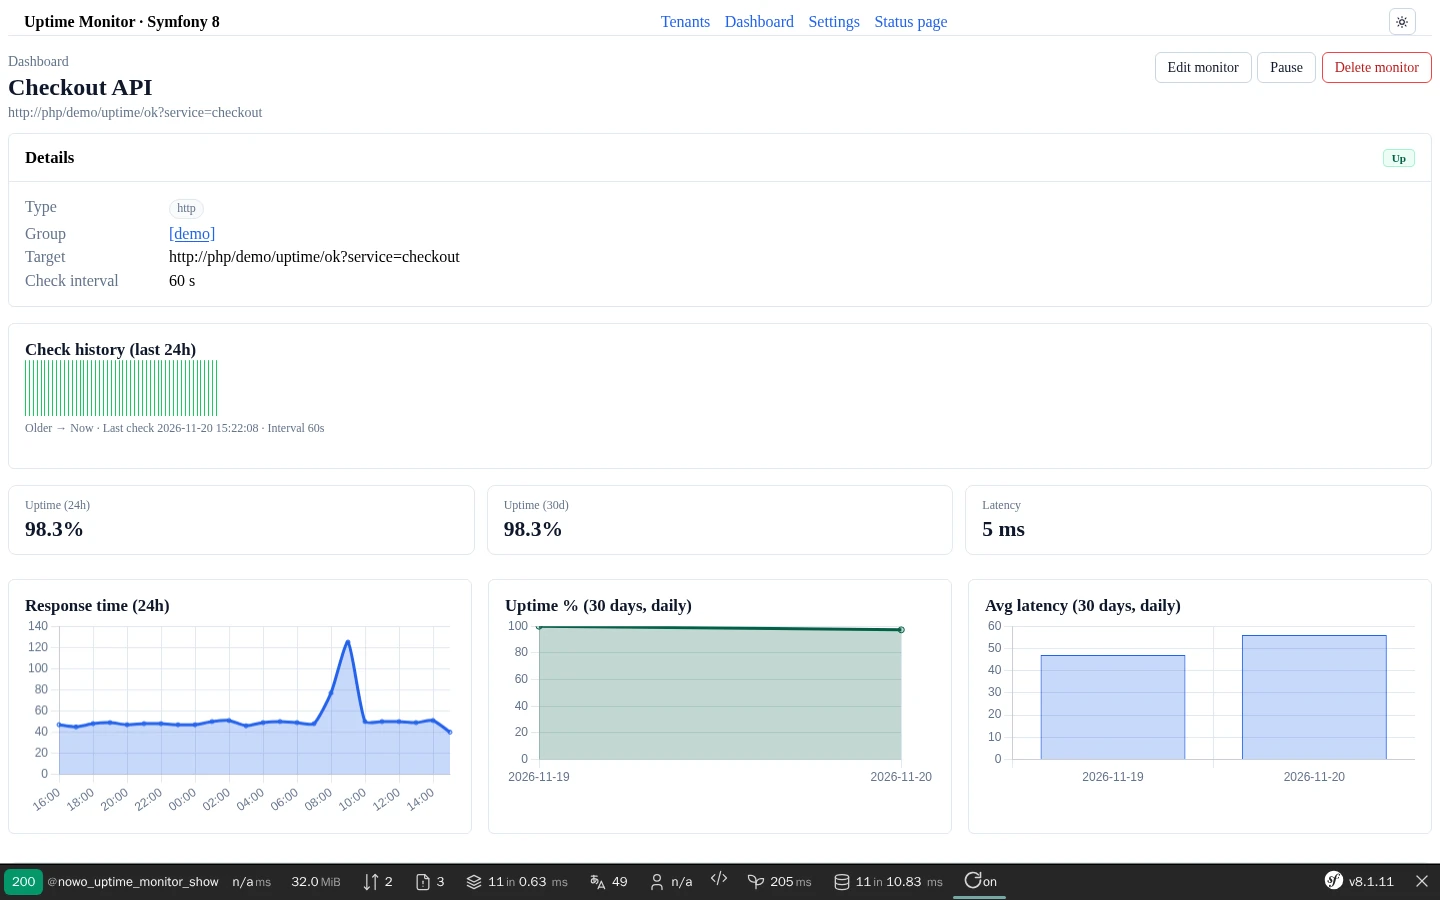
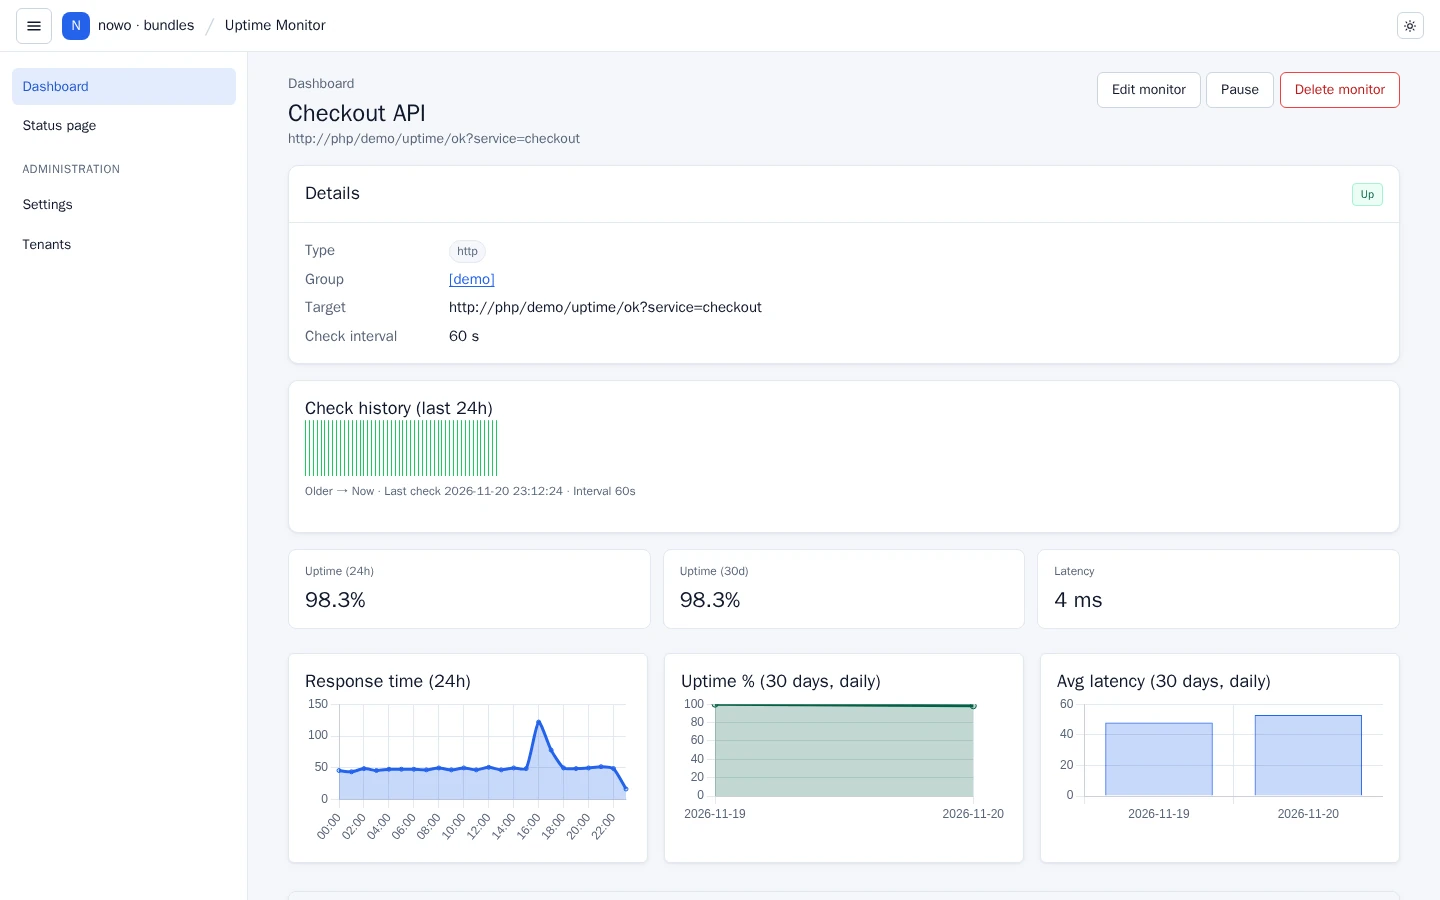
chore(demo): run the demo in UiKit's demo platform shell

diff --git a/demo/symfony8/e2e/tests/demo-platform.spec.ts b/demo/symfony8/e2e/tests/demo-platform.spec.ts
@@ -1,0 +1,188 @@
+import { test, expect, type Page } from '@playwright/test';
+import AxeBuilder from '@axe-core/playwright';
+
+/**
+ * UiKit demo platform shell (REQ-DEMO-014): layout grammar, demo styles, host theme tokens, framework classes, the
+ * closed phone drawer, 44 px touch targets and input borders on every demo page, plus axe (wcag2a / 2aa / 21a / 21aa,
+ * serious + critical = 0) in light and dark, desktop and phone, and the keyboard drawer pass.
+ */
+type Theme = 'light' | 'dark';
+type PageEntry = string | ((page: Page) => Promise<string>);
+
+async function prepare(_page: Page): Promise<void> {}
+
+/** The detail page of a seeded monitor (ids change on every reseed). */
+async function monitorPath(page: Page): Promise<string> {
+  await page.goto('/uptime/main');
+  await page.getByRole('link', { name: 'Checkout API', exact: true }).first().click();
+  await page.waitForURL(/\/monitors\/\d+$/);
+  return new URL(page.url()).pathname;
+}
+
+
+async function setTheme(page: Page, theme: Theme): Promise<void> {
+  await page.evaluate((t) => {
+    document.documentElement.setAttribute('data-theme', t);
+    document.documentElement.setAttribute('data-bs-theme', t);
+  }, theme);
+}
+
+async function axe(page: Page): Promise<string[]> {
+  const result = await new AxeBuilder({ page }).withTags(['wcag2a', 'wcag2aa', 'wcag21a', 'wcag21aa']).exclude('.sf-toolbar').analyze();
+  return result.violations
+    .filter((v) => v.impact === 'serious' || v.impact === 'critical')
+    .map((v) => `${v.id}: ${v.nodes.map((n) => n.target.join(' ')).join(', ')}`);
+}
+
+/** The demo layout + style rules (docs/USAGE.md "Demo platform shell"; same function as the rollout brief's spec): layout grammar,
+ * no demo styles / host tokens / framework classes, closed drawer inert, 44 px targets on coarse pointers, input borders 3:1. */
+/* eslint-disable */
+// prettier-ignore
+function demoPlatformRules(): string[] {
+  const issues = [];
+  const main = document.querySelector('#nowo-ui-content');
+  const shell = document.querySelector('[data-testid="demo-platform"]');
+  if (!main || !shell) return ['no-demo-platform-shell'];
+  const visible = (el) => !!(el.offsetWidth || el.offsetHeight || el.getClientRects().length);
+  const carded = (el) => el.closest('.nowo-ui-card, [data-nowo-ui-region="table"], [data-nowo-ui-region="form"], .nowo-ui-form-panel, dialog');
+  const skip = (el) => el.closest('dialog, [data-nowo-ui-region="filters"], .nowo-ui-filters, .nowo-ui-page-header');
+
+  // Layout grammar.
+  main.querySelectorAll('table').forEach((t) => { if (!carded(t)) issues.push('table-outside-card'); });
+  main.querySelectorAll('form').forEach((f) => {
+    if (f.querySelector('input:not([type="hidden"]), select, textarea') && !carded(f) && !skip(f) && !f.closest('table')) issues.push('form-outside-card');
+  });
+  const primaries = [...main.querySelectorAll('.nowo-ui-btn--primary')].filter((b) => visible(b) && !b.closest('table, dialog, [data-nowo-ui-region="filters"], .nowo-ui-filters, form'));
+  if (primaries.length > 1) issues.push(`primary-buttons:${primaries.length}`);
+  const header = main.querySelector('.nowo-ui-page-header');
+  const flashes = main.querySelector('.nowo-ui-flashes');
+  if (header && flashes && (flashes.compareDocumentPosition(header) & Node.DOCUMENT_POSITION_FOLLOWING)) issues.push('flashes-before-page-header');
+  if (document.documentElement.scrollWidth > document.documentElement.clientWidth + 1) issues.push('page-scrolls-horizontally');
+
+  // Styles: no demo styles, no host theme tokens, no CDN / foreign stylesheet, no framework classes inside the shell.
+  document.querySelectorAll('style').forEach((s) => {
+    if (s.matches('[data-nowo-ui-theme-tokens], [data-nowo-ui-appearance]')) { issues.push('host-theme-tokens'); return; }
+    if (!/sf-toolbar|sfwdt|sf-minitoolbar|sf-display/.test(s.textContent || '') && !s.closest('[id^="sfwdt"], .sf-toolbar')) issues.push('style-element');
+  });
+  document.querySelectorAll('link[rel="stylesheet"]').forEach((l) => {
+    const path = new URL(l.href, location.href).pathname;
+    if (!path.startsWith('/bundles/') && !path.startsWith('/_wdt/') && !path.startsWith('/_profiler/')) issues.push(`stylesheet:${path}`);
+  });
+  const framework = /^(acme-.*|nav-tabs|nav-link|nav-item|alert|alert-.*|form-check.*|form-control|form-select|form-label|btn|btn-.*|card|card-.*|badge|row|col|col-.*|table|table-.*)$/;
+  shell.querySelectorAll('[class]').forEach((el) => {
+    for (const c of el.classList) { if (framework.test(c)) { issues.push(`framework-class:${c}`); break; } }
+  });
+
+  // Drawer: below 901 px a closed drawer is inert and the burger says so.
+  const aside = shell.querySelector('[data-nowo-ui-aside]');
+  if (aside && window.innerWidth < 901) {
+    const open = shell.classList.contains('is-aside-open-mobile');
+    if (!open && !aside.hasAttribute('inert')) issues.push('drawer-not-inert');
+    shell.querySelectorAll('[data-nowo-ui-burger]').forEach((b) => {
+      if (visible(b) && b.getAttribute('aria-expanded') !== (open ? 'true' : 'false')) issues.push('burger-state');
+    });
+  }
+
+  // Touch: 44 px targets on coarse pointers (checkbox / radio 24 px, their label carries the 44 px row).
+  if (window.matchMedia('(pointer: coarse)').matches) {
+    const controls = [...shell.querySelectorAll('.nowo-ui-btn, button, summary, input:not([type="hidden"]), select, textarea, [role="tab"], .nowo-ui-aside__link, .nowo-ui-demo-platform__locale')]
+      .filter((el) => visible(el) && !el.closest('[inert], table'));
+    for (const el of controls) {
+      const r = el.getBoundingClientRect();
+      const small = el.matches('input[type="checkbox"], input[type="radio"]') ? r.height < 24 || r.width < 24 : r.height < 43.5;
+      if (small) { issues.push(`target-under-44px:${(el.className && String(el.className).split(' ')[0]) || el.tagName.toLowerCase()}`); }
+    }
+  }
+
+  // Inputs: boundary 3:1 or more against the surface behind them (WCAG 1.4.11).
+  const rgb = (c) => { const m = c.match(/[\d.]+/g); return m ? m.slice(0, 4).map(Number) : null; };
+  const lum = (c) => { const v = c.slice(0, 3).map((x) => { const s = x / 255; return s <= 0.03928 ? s / 12.92 : ((s + 0.055) / 1.055) ** 2.4; }); return 0.2126 * v[0] + 0.7152 * v[1] + 0.0722 * v[2]; };
+  const bgOf = (el) => { for (let n = el.parentElement; n; n = n.parentElement) { const c = rgb(getComputedStyle(n).backgroundColor); if (c && (c.length < 4 || c[3] > 0)) return c; } return [255, 255, 255]; };
+  shell.querySelectorAll('input:not([type="hidden"], [type="checkbox"], [type="radio"]), select, textarea').forEach((el) => {
+    if (!visible(el) || el.closest('[inert]')) return;
+    const border = rgb(getComputedStyle(el).borderTopColor);
+    if (!border) return;
+    const a = lum(border); const b = lum(bgOf(el));
+    if ((Math.max(a, b) + 0.05) / (Math.min(a, b) + 0.05) < 3) issues.push(`input-border-under-3:1:${el.id || el.name || el.tagName.toLowerCase()}`);
+  });
+
+  return [...new Set(issues)];
+}
+
+
+const PAGES: PageEntry[] = ['/uptime/main', monitorPath, '/uptime/main/monitors/new', '/uptime/main/settings', '/status/main'];
+
+const BUNDLE_OWNED: Array<{ path: RegExp; rule: RegExp }> = [
+  // Bundle-owned (Uptime Monitor pages carry their own component CSS): search / filter / form fields under 3:1 or 44 px, switches under 44 px, a search form outside a card, and axe color-contrast / list / nested-interactive / scrollable-region-focusable on dashboard, monitor and status pages.
+  { path: /^\/(uptime|status)\//, rule: /^(form-outside-card|target-under-44px|input-border-under-3:1|color-contrast|list|nested-interactive|scrollable-region-focusable)/ },
+];
+
+/** Findings on a bundle's own page are reported as bundle-owned (not patched in the demo): they are filtered here, by path and rule. */
+function demo(url: string, issues: string[]): string[] {
+  const path = new URL(url).pathname;
+  return issues.filter((issue) => !BUNDLE_OWNED.some((o) => o.path.test(path) && o.rule.test(issue)));
+}
+
+async function resolvePath(page: Page, entry: PageEntry): Promise<string> {
+  return typeof entry === 'function' ? entry(page) : entry;
+}
+
+test.describe('demo platform rules', () => {
+  // Device-emulating projects (phone / iphone ...) set their own context: the viewport blocks below do it explicitly.
+  test.beforeEach(async ({}, testInfo) => {
+    test.skip(/phone/i.test(testInfo.project.name), 'viewport blocks set their own context');
+  });
+
+  test('desktop 1440 px', async ({ page }) => {
+    await page.setViewportSize({ width: 1440, height: 900 });
+    await prepare(page);
+    for (const path of PAGES) {
+      await page.goto(await resolvePath(page, path));
+      expect(demo(page.url(), await page.evaluate(demoPlatformRules)), page.url()).toEqual([]);
+    }
+  });
+
+  test.describe('phone 390 px, touch', () => {
+    test.use({ viewport: { width: 390, height: 844 }, isMobile: true, hasTouch: true });
+
+    test('rules on every page', async ({ page }) => {
+      await prepare(page);
+      for (const path of PAGES) {
+        await page.goto(await resolvePath(page, path));
+        expect(demo(page.url(), await page.evaluate(demoPlatformRules)), page.url()).toEqual([]);
+      }
+    });
+
+    test('keyboard drawer pass', async ({ page }) => {
+      await prepare(page);
+      await page.goto(await resolvePath(page, PAGES[0]));
+      const aside = page.locator('[data-nowo-ui-aside]');
+      await expect(aside).toHaveAttribute('inert', '');
+      const burger = page.locator('[data-nowo-ui-burger]').first();
+      await expect(burger).toHaveAttribute('aria-expanded', 'false');
+      await burger.focus();
+      await page.keyboard.press('Enter');
+      await expect(page.getByTestId('demo-platform')).toHaveClass(/is-aside-open-mobile/);
+      await expect(page.locator('[data-nowo-ui-aside] :focus')).toHaveCount(1);
+      await expect(page.locator('.nowo-ui-main')).toHaveAttribute('inert', '');
+      await expect(page.locator('html')).toHaveClass(/nowo-ui-drawer-open/);
+      await page.keyboard.press('Escape');
+      await expect(burger).toBeFocused();
+      await expect(aside).toHaveAttribute('inert', '');
+    });
+  });
+
+  for (const theme of ['light', 'dark'] as Theme[]) {
+    for (const [name, width] of [['desktop', 1440], ['phone', 390]] as const) {
+      test(`axe clean: ${name}, ${theme}`, async ({ page }) => {
+        await page.setViewportSize({ width, height: 900 });
+        await prepare(page);
+        for (const path of PAGES) {
+          await page.goto(await resolvePath(page, path));
+          await setTheme(page, theme);
+          expect(demo(page.url(), await axe(page)), page.url()).toEqual([]);
+        }
+      });
+    }
+  }
+});

diff --git a/demo/symfony8/e2e/tests/screenshots.spec.ts b/demo/symfony8/e2e/tests/screenshots.spec.ts
@@ -4,7 +4,7 @@ import { resolve } from 'node:path';
 import { OUTAGE_MONITOR, openDashboard } from './helpers';
 
 /**
- * REQ-DEMO-013 — README screenshots in full demo context: app masthead + bundle UI + Symfony web debug
+ * REQ-DEMO-013 — README screenshots in full demo context: demo shell + bundle UI, no Symfony debug
  * toolbar (light theme), with the seeded monitors and 24 h of backfilled history (`make demo-screenshots` reseeds first).
  * Captured as PNG; `make demo-screenshots` converts them to WebP and deletes the PNGs.
  */
@@ -18,17 +18,14 @@ const WIDTH = 1440;
 const HEIGHT = 900;
 
 /**
- * Captures the viewport (masthead → bundle UI → fixed web debug toolbar) once the toolbar is rendered.
- * When `until` is given, the viewport grows so that element is fully visible above the toolbar.
+ * Captures the viewport (demo shell header → bundle UI). The Symfony toolbar is not part of the demo platform: it is hidden.
+ * When `until` is given, the viewport grows so that element is fully visible.
  */
 async function captureDemoFrame(page: Page, file: string, until?: Locator): Promise<void> {
-  const toolbar = page.locator('.sf-toolbar .sf-toolbarreset');
-  await expect(toolbar).toBeVisible();
+  await page.addStyleTag({ content: '.sf-toolbar,.sf-minitoolbar,[id^="sfwdt"]{display:none!important}' });
   if (until) {
     const bottom = await until.evaluate((el) => el.getBoundingClientRect().bottom + window.scrollY);
-    const toolbarHeight = (await toolbar.boundingBox())?.height ?? 40;
-    await page.setViewportSize({ width: WIDTH, height: Math.max(HEIGHT, Math.ceil(bottom + 32 + toolbarHeight)) });
-    await expect(toolbar).toBeVisible();
+    await page.setViewportSize({ width: WIDTH, height: Math.max(HEIGHT, Math.ceil(bottom + 32)) });
   }
   // Let Chart.js / heartbeat bars finish their entry animation.
   await page.evaluate(() => new Promise((done) => requestAnimationFrame(() => setTimeout(done, 1200))));

diff --git a/demo/symfony8/config/reference.php b/demo/symfony8/config/reference.php
@@ -954,6 +954,10 @@ use Symfony\Component\Config\Loader\ParamConfigurator as Param;
  *         flush_listener_changes?: bool|Param, // Since 1.27.0: after the MonitorWentDownEvent / MonitorRecoveredEvent listeners ran (after the check commit), also flush the application entity manager that maps the bundle entities when a listener left changes there (the 1.25 to 1.26 behaviour; a deprecation is triggered when it flushes something). False = the bundle never flushes an application manager (DDD hosts; the only behaviour in 2.0): listeners flush their own changes. // Default: true
  *         table_prefix?: scalar|Param|null, // Prefix prepended to every bundle table, index and unique constraint name (e.g. "app_" yields app_uptime_monitor). Empty = historical uptime_* names. // Default: ""
  *     },
+ *     conflict_response?: array{ // Since 1.31 (REQ-RUNTIME-003 rule 6): the answer of a bundle route to a lock conflict (deadlock, lock wait timeout, serialization failure). Nothing committed: the status + Retry-After + code CONFLICT_001; part committed: the status, no Retry-After, code CONFLICT_002. Null options follow the shared nowo_transaction_doctrine.conflict_response policy when NowoTransactionDoctrineBundle is registered, else 409 and 1 s.
+ *         status?: int|Param, // 409 (default) or 503 (the 1.29 to 1.30 answer). Null = the shared policy, else 409. // Default: null
+ *         retry_after?: int|Param, // Retry-After seconds of a CONFLICT_001 answer when the failure carries no hint of its own. Null = the shared policy, else 1. // Default: null
+ *     },
  *     scheduler?: array{
  *         enabled?: bool|Param, // Default: true
  *         mode?: "scheduler"|"cron"|"messenger"|Param, // Default: "scheduler"
@@ -979,6 +983,15 @@ use Symfony\Component\Config\Loader\ParamConfigurator as Param;
  *         purge_enabled?: bool|Param, // Default: true
  *         purge_batch_size?: int|Param, // Rows deleted per keyset batch by the detail purge and nowo:uptime:clear-data (short autocommit statements instead of one unbounded DELETE) // Default: 1000
  *     },
+ *     audit?: array{ // Since 1.33: audit trail of monitor changes (who, when, which fields; write-only fields only as replaced / cleared). Off by default.
+ *         enabled?: bool|Param, // Record every monitor create, change and delete and dispatch MonitorChangedEvent after the commit // Default: false
+ *         actor_resolver?: scalar|Param|null, // Service id of a MonitorChangeActorResolverInterface (who changed the monitor); null = the user identifier of the security token // Default: null
+ *         history?: array{
+ *             enabled?: bool|Param, // Also store the changes in the uptime_monitor_change table and show them on the monitor page (needs audit.enabled) // Default: false
+ *             retention_days?: int|Param, // Days nowo:uptime:purge-monitor-changes keeps history rows; 0 = keep forever // Default: 365
+ *             display_limit?: int|Param, // Latest changes shown on the monitor page // Default: 50
+ *         },
+ *     },
  *     aggregates?: array{
  *         keep_forever?: bool|Param, // Deprecated: The "nowo_uptime_monitor.aggregates.keep_forever.keep_forever" option is deprecated and has no effect: aggregates are always kept; use nowo:uptime:clear-data to remove them. // Deprecated: never read; aggregates are always kept (remove them with nowo:uptime:clear-data). // Default: true
  *         periods?: list<scalar|Param|null>,
@@ -988,6 +1001,11 @@ use Symfony\Component\Config\Loader\ParamConfigurator as Param;
  *         header?: scalar|Param|null, // Deprecated: The "nowo_uptime_monitor.multi_tenant.header.header" option is deprecated and has no effect: tenants are resolved from the URL slug, not a request header. // Deprecated: never read; tenants are resolved from the URL, not a request header. // Default: "X-Uptime-Tenant"
  *         default_tenant?: scalar|Param|null, // Default: "main"
  *         provisioner?: scalar|Param|null, // Since 1.21: service id of a Nowo\UptimeMonitorBundle\Tenant\MissingTenantProvisionerInterface, called (after the access checks) when an admin page or API names a tenant slug without a tenant; it returns the new tenant, or null for a 404. null = off. // Default: null
+ *     },
+ *     search_kit?: array{ // Since 1.32: the SearchKit provider of monitors (group `uptime_monitors`). Wired only when nowo-tech/search-kit-bundle ^1.9 is installed and web_ui is enabled.
+ *         enabled?: bool|Param, // false: no monitors in SearchKit. // Default: true
+ *         tenant_resolver?: scalar|Param|null, // Service id of a Nowo\UptimeMonitorBundle\Search\MonitorSearchTenantResolverInterface returning the tenant slug of the viewer (null = none: no results). null here = the `tenantSlug` of the current request, else multi_tenant.default_tenant. // Default: null
+ *         max_candidates?: int|Param, // Rows read and access-checked per search; bounds the visible total and the deepest results page. // Default: 100
  *     },
  *     tenants?: array{ // Tenant list UI (/tenants). Disable in single-tenant host apps (e.g. nowo-devkit).
  *         list_enabled?: bool|Param, // When false, GET /tenants redirects to the default tenant dashboard. // Default: true
@@ -1601,10 +1619,18 @@ use Symfony\Component\Config\Loader\ParamConfigurator as Param;
  *         tokens_dark?: array<string, mixed>,
  *         confirm_message_in_header?: bool|Param, // Confirm dialogs and the full-page confirm render the message inside the header, under the title (hosts whose dialog header is title + message). View\Confirm::messageInHeader wins when set. // Default: false
  *         popover_menus?: bool|Param, // 2.4: menu / kebab / row-action menus render their panel as a native [popover] (browser top layer: never clipped by table scrollers or cards; nowo-ui-popover.js places it). The partial option `popover` wins. // Default: false
+ *         context_menus?: bool|Param, // 2.54: kebab / row-action menus also open as the context menu of the row or card around them (right-click, the ContextMenu key, Shift+F10, long press on touch), with the same items. Loads the opt-in context-menu runtime through the scripts partial. The partial option `context_menu` wins; data-nowo-ui-context-menu="off" opts a row out. // Default: false
  *         form_errors_after_widget?: bool|Param, // 2.10: the UiKit form theme (form/nowo_ui_layout.html.twig) prints a field's errors after its widget (and before the help), instead of Symfony's order (label, errors, widget, help). // Default: false
  *         menu_semantics?: null|"menu"|"disclosure"|Param, // 2.28: ARIA of popover menus with items. null (default) = as 2.27; menu = APG menu button (role="menu" / menuitem, arrow keys in nowo-ui-popover.js); disclosure = no aria-haspopup. The menu partial option `menu_semantics` wins. // Default: null
  *         dialog?: array{ // 2.31: kit dialog options (docs/THEMING.md#dialog-sizes-229).
  *             height?: "content"|"size"|Param, // 2.31: content (default, dialog rule v2) = a dialog is as tall as its content, capped at min(the size's height token, 100dvh - 2rem), only the body scrolls; size = every dialog with a field, list, table or fold has the size's height (2.29 / 2.30), printed as --nowo-ui-dialog-fill: 1 by nowo_ui_theme_css(). // Default: "content"
+ *         },
+ *         focus_mode?: array{ // 2.55: shell focus mode — [data-nowo-ui-focus-mode] toggles hide the shell regions (level 1) and optionally enter the browser fullscreen (level 2); js/nowo-ui-focus-mode.js. See docs/USAGE.md#shell-focus-mode-255.
+ *             enabled?: bool|Param, // false (default): no shell attributes, no focus bar, the focus_mode_toggle partial renders nothing and the scripts partial does not load the runtime. // Default: false
+ *             regions?: list<scalar|Param|null>,
+ *             keep?: list<scalar|Param|null>,
+ *             shortcut?: scalar|Param|null, // Key that toggles level 1 on pages with a toggle (never while typing, with a modifier pressed or with a dialog / menu open); e.g. F or Alt+Shift+F. null or false: no shortcut. // Default: "F"
+ *             fullscreen?: bool|Param, // Offer level 2 (the browser fullscreen on the shell, from the focus bar or a fullscreen toggle). Unsupported or refused by the browser: level 1 stays. // Default: true
  *         },
  *         bundles?: array<string, array{ // Default: []
  *             framework_defaults?: bool|Param, // Override of theme.framework_defaults for this bundle (unset = inherit).

diff --git a/docs/CHANGELOG.md b/docs/CHANGELOG.md
@@ -97,6 +97,7 @@ The format is based on [Keep a Changelog](https://keepachangelog.com/en/1.0.0/).
 
 ### Changed
 
+- Demo: runs in UiKit's demo platform shell (`nowo-tech/ui-kit-bundle` ^2.60; shared top bar, aside, page header and section cards; no demo stylesheet or `<style>`). Demo only, no bundle change.
 - Demo: aligned with UiKit (`demo-nav-*` test ids on the shared `demo-masthead`, brand label as in the reference demos).
 
 ## [1.34.1] - 2026-11-20
